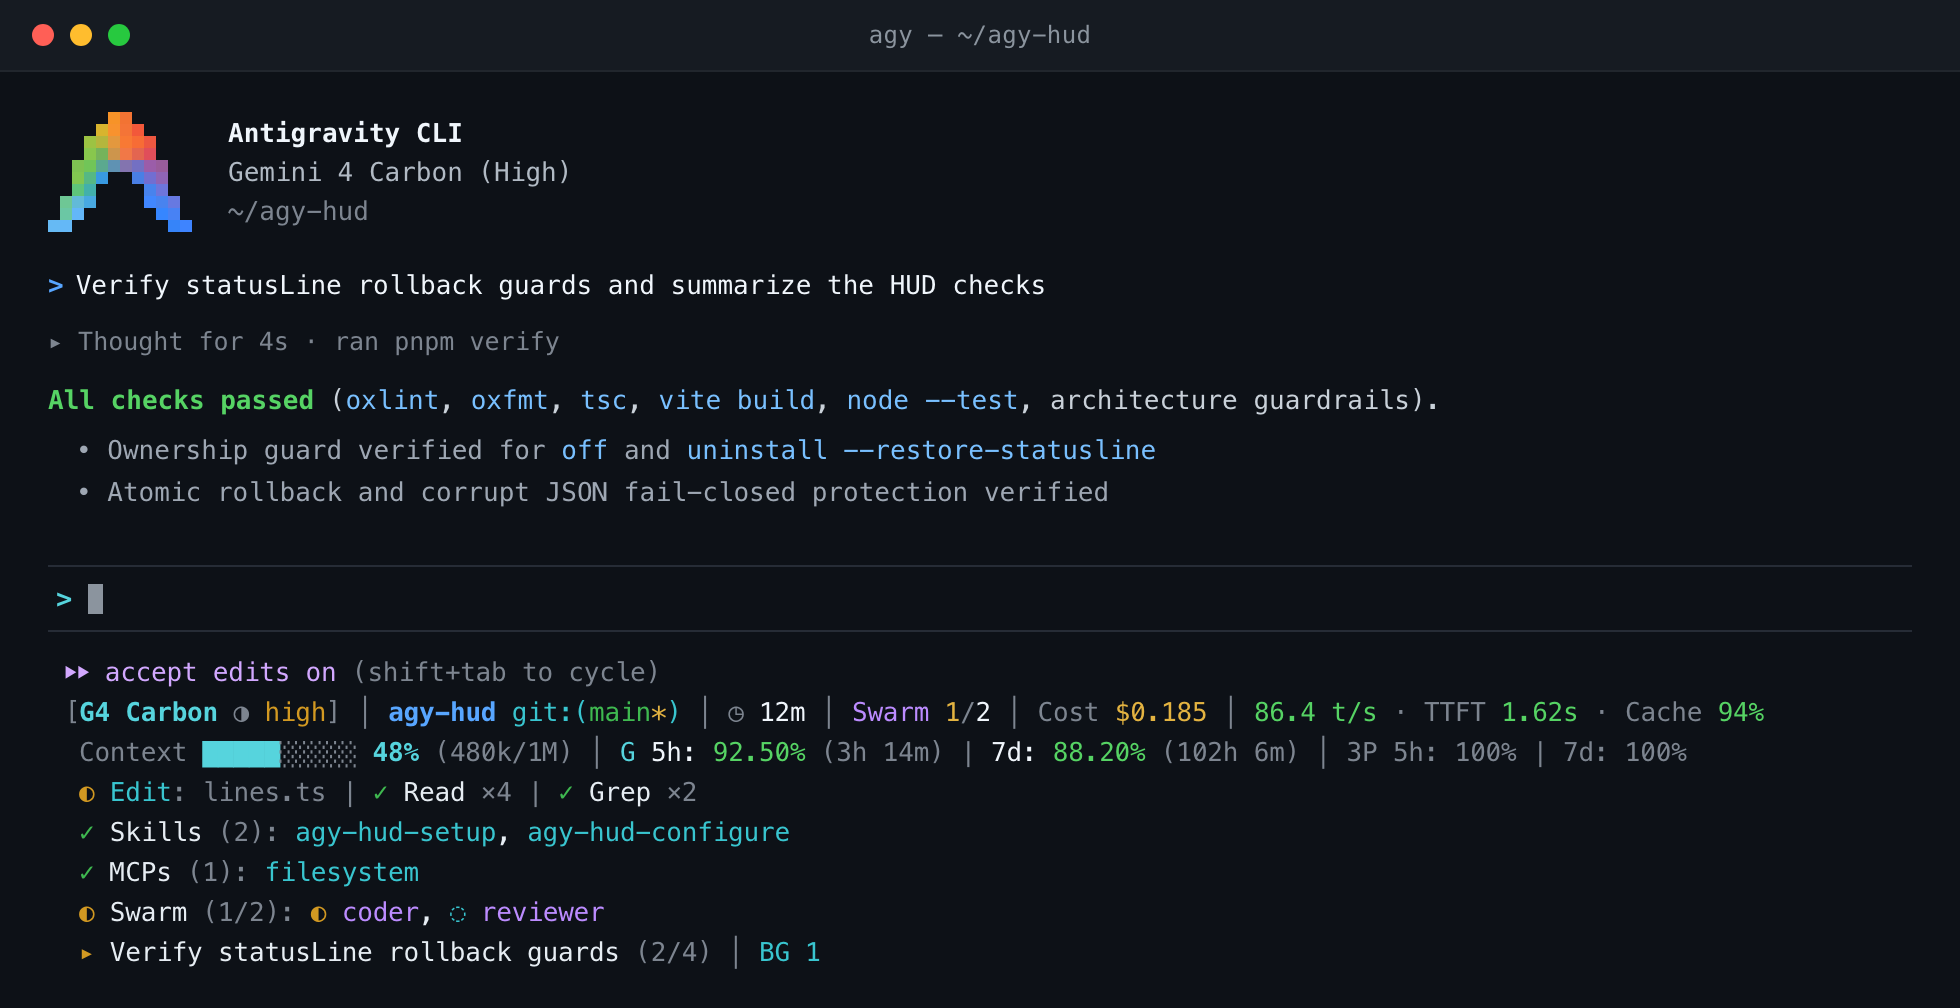
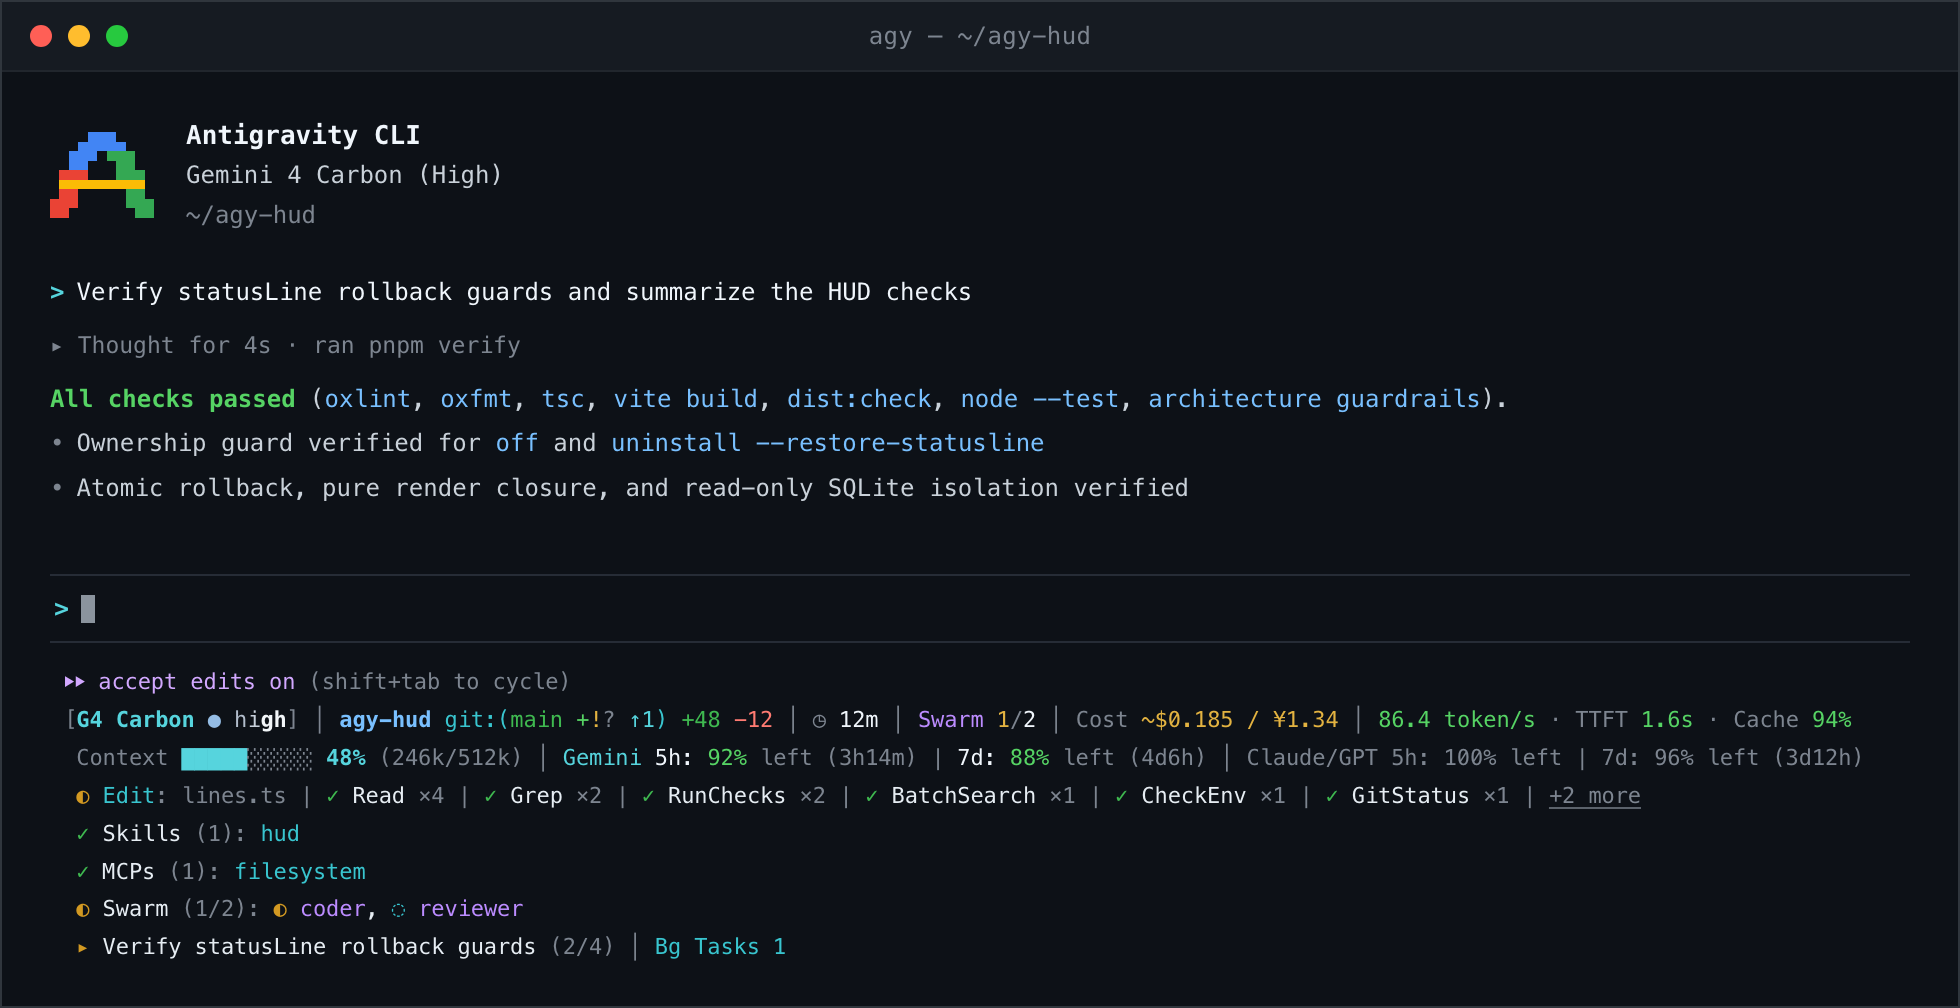
docs(docs): 刷新 v0.1.0 实时预览截图并同步发版日期与上线清单

diff --git a/RELEASING.md b/RELEASING.md
@@ -129,8 +129,8 @@ Enable **Repository Settings -> General -> Releases -> Enable release immutabili
 Before pushing `v0.1.0`:
 
 - [ ] Merge feature branch (`feat/hud-overflow-inspection`) into `main` with all 5 `ci.yml` checks passing.
-- [ ] Refresh `assets/preview.png` from a live Antigravity CLI terminal session (current image dates from `2026-11-24`, prior to model-aware peak effort platinum sheen styling, Context Budget, `Claude/GPT` quota labels, `Bg Tasks`, and `TTFT 1.6s`).
-- [ ] Review `CHANGELOG.md` `## [v0.1.0]` `### Highlights` and `### Added`, and verify `pnpm release notes v0.1.0 --with-install-header`.
-- [ ] Confirm `README.md` and `README.zh-CN.md` pinned `/tree/v0.1.0` examples match the target tag.
+- [x] Refresh `assets/preview.png` with v0.1.0 HUD visuals (model-aware peak effort platinum sheen styling, enhanced Git status, dual USD/CNY cost, Context Budget, `Gemini` and `Claude/GPT` quota labels, OSC 8 `+N more`, unified `hud` skill, Swarm chips, `Bg Tasks`, and `TTFT 1.6s`).
+- [x] Review `CHANGELOG.md` `## [v0.1.0]` `### Highlights` and `### Added`, and verify `pnpm release notes v0.1.0 --with-install-header`.
+- [x] Confirm `README.md` and `README.zh-CN.md` pinned `/tree/v0.1.0` examples match the target tag.
 - [ ] Enable the `main` and `v*` GitHub Rulesets plus Immutable Releases above.
 - [ ] On synced `main`, run `pnpm release tag` and push with `git push origin v0.1.0`.

diff --git a/CHANGELOG.md b/CHANGELOG.md
@@ -6,7 +6,7 @@ The format follows [Keep a Changelog](https://keepachangelog.com/en/1.1.0/), and
 
 ## [Unreleased]
 
-## [v0.1.0] - 2026-11-27
+## [v0.1.0] - 2026-11-28
 
 ### Highlights
 
